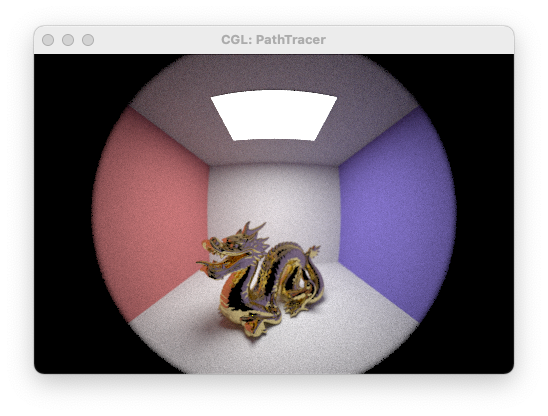
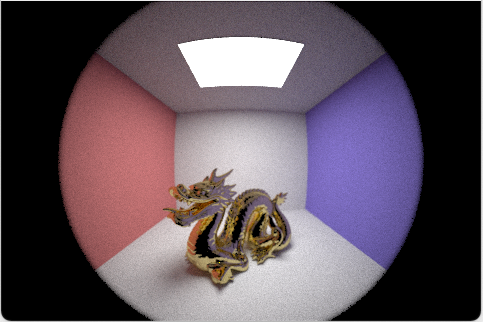
flash

diff --git a/website/index.html b/website/index.html
@@ -204,7 +204,7 @@
         <p>
             We start with our four lenses, both unfocused and then autofocused. We manually moved the camera before rendering so that the dragon takes up about the same amount of space.
         </p>
-        <h3>50mm Dougle-Gauss</h3>
+        <h3>50mm Double-Gauss</h3>
         <div align="center">
             <table style="width=100%">
               <tr>
@@ -267,6 +267,47 @@
         <p>
             Here are some images diplaying our flash capabilities.
         </p>
+        <h3>Scene used to test flash</h3>
+        <div align="center">
+            <table style="width=100%">
+              <tr>
+                <td align="middle">
+                  <img src="images/black.png" width="480px" />
+                  <figcaption align="middle">CB_dragon modified to have no light</figcaption>
+                </td>
+              </tr>
+            </table>
+        </div>
+        <h3>Flash with a few different lenses</h3>
+        <div align="center">
+            <table style="width=100%">
+              <tr>
+                <td align="middle">
+                  <img src="images/area-light-2.png" width="480px" />
+                  <figcaption align="middle">50mm Double-Gauss</figcaption>
+                </td> 
+                <td align="middle">
+                  <img src="images/flash-lens-2.png" width="480px" />
+                  <figcaption align="middle">22mm Wide-Angle</figcaption>
+                </td> 
+              </tr>
+            </table>
+        </div>
+        <h3>Flash working like an actual flash</h3>
+        <div align="center">
+            <table style="width=100%">
+              <tr>
+                <td align="middle">
+                    <img src="images/angled-camera.png" width="480px" />
+                    <figcaption align="middle">Shows that flash moves with the camera</figcaption>
+                </td> 
+                <td align="middle">
+                  <img src="images/flash-lens-1-far.png" width="480px" />
+                  <figcaption align="middle">Image is less bright when the camera is farther away</figcaption>
+                </td> 
+              </tr>
+            </table>
+        </div>
 
         <p> And finally here are images showing off the auto-exposure</p>
         <h3>Flash and Auto-Exposure</h3>
